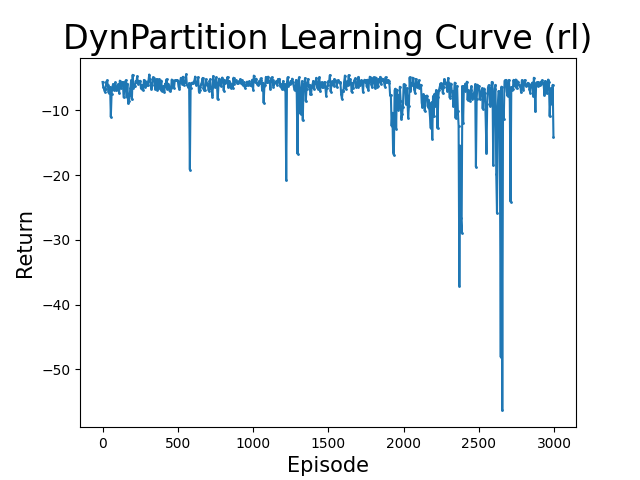
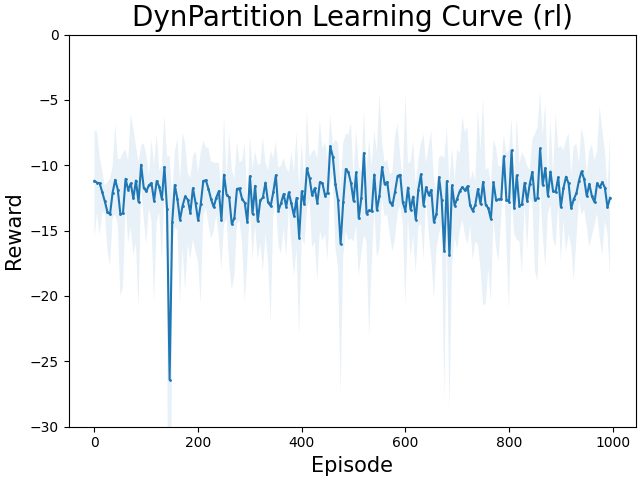
Add presentation plots

diff --git a/dynpartition/partitioner/rl_partitioner.py b/dynpartition/partitioner/rl_partitioner.py
@@ -13,52 +13,57 @@ from scheduler_env import SchedulerEnv
 
 
 def main():
-    num_seeds = 1
-    num_episodes = 100
+    num_seeds = 5
+    num_episodes = 1000
     num_test_episodes = 5
     episodes_between_test = 5
     l = num_episodes // episodes_between_test
     res = np.zeros((num_seeds, l))
-    agent = DQN_Agent(SchedulerEnv(), strategy='static-cpu')
+    agent = DQN_Agent(SchedulerEnv(), strategy='rl')
 
-    reward_means = []
     for i in tqdm.tqdm(range(num_seeds)):
+        reward_means = []
         for m in range(num_episodes):
-            print("Episode", m)
             agent.train()
+            if m % episodes_between_test == 0:
+                print(f"Episode: {m}")
+                G = np.zeros(episodes_between_test)
+                for k in range(num_test_episodes):
+                    g = agent.test()
+                    G[k] = g
 
-            # if episodes_between_test != 0:
-            #     continue
-
-            print(f"Episode: {m}")
-            G = np.zeros(20)
-            for k in range(num_test_episodes):
-                g = agent.test()
-                G[k] = g
-
-            reward_mean = G.mean()
-            reward_sd = G.std()
-            print(
-                f"The test reward for episode {m} is {reward_mean} "
-                f"with sd of {reward_sd}."
-            )
-            reward_means.append(reward_mean)
+                reward_mean = G.mean()
+                reward_sd = G.std()
+                print(
+                    f"The test reward for episode {m} is {reward_mean} "
+                    f"with sd of {reward_sd}."
+                )
+                reward_means.append(reward_mean)
 
         print(reward_means)
         res[i] = np.array(reward_means)
 
     ks = np.arange(l) * episodes_between_test
+    print(res)
+    print(res.shape)
     avs = np.mean(res, axis=0)
     maxs = np.max(res, axis=0)
     mins = np.min(res, axis=0)
 
-    plt.fill_between(ks, mins, maxs, alpha=0.1)
-    plt.plot(ks, avs, '-o', markersize=1)
+    import ipdb
+    ipdb.set_trace()
 
-    plt.xlabel('Episode', fontsize=15)
-    plt.ylabel('Return', fontsize=15)
+    fig, ax = plt.subplots(layout='constrained')
+    ax.fill_between(ks, mins, maxs, alpha=0.1)
+    ax.plot(ks, avs, '-o', markersize=1)
 
-    plt.title(f"DynPartition Learning Curve ({agent.strategy})", fontsize=24)
+    ax.set_xlabel('Episode', fontsize=15)
+    ax.set_ylabel('Reward', fontsize=15)
+
+    ax.set_title(
+        f"DynPartition Learning Curve ({agent.strategy})", fontsize=20)
+    ax.set_ylim(-30, 0)
+
     plot_path = get_plot_path().joinpath(
         f"dynpartition_learning_curve_{agent.strategy}.png")
     plt.savefig(plot_path)

diff --git a/dynpartition/partitioner/scheduler_env.py b/dynpartition/partitioner/scheduler_env.py
@@ -100,8 +100,6 @@ class SchedulerEnv(gym.Env):
 
         terminated = self.current_batch == self.num_batches
 
-        self.obs_id = 1337
-
         tree = self.dataset.trees[self.obs_id]
         for traversal_idx in range(tree.size()):
             node = tree.traversal_dict[traversal_idx]
@@ -115,32 +113,26 @@ class SchedulerEnv(gym.Env):
             execution_strategy='async',
         )
 
-        rewards = []
-        for i in range(100):
-            start = torch.cuda.Event(enable_timing=True)
-            end = torch.cuda.Event(enable_timing=True)
-            start.record()
-            execute_forward()
-            end.record()
+        start = torch.cuda.Event(enable_timing=True)
+        end = torch.cuda.Event(enable_timing=True)
+        start.record()
+        execute_forward()
+        end.record()
 
-            # run_times = timeit.repeat(
-            #     execute_forward,
-            #     number=1,
-            #     repeat=self.num_repeat,
-            #     globals=globals()
-            # )
-            # mean, std = np.mean(run_times), np.std(run_times)
-            # print(f"Mean: {mean}, Std: {std}")
+        # run_times = timeit.repeat(
+        #     execute_forward,
+        #     number=1,
+        #     repeat=self.num_repeat,
+        #     globals=globals()
+        # )
+        # mean, std = np.mean(run_times), np.std(run_times)
+        # print(f"Mean: {mean}, Std: {std}")
 
-            # Waits for everything to finish running
-            torch.cuda.synchronize()
+        # Waits for everything to finish running
+        torch.cuda.synchronize()
 
-            elapsed_time = start.elapsed_time(end)
-            reward = -elapsed_time
-
-            rewards.append(reward)
-
-        print(rewards)
+        elapsed_time = start.elapsed_time(end)
+        reward = -elapsed_time
 
         # run_times = timeit.repeat(
         #     execute_forward, number=1, repeat=self.num_repeat, globals=globals())

diff --git a/dynpartition/partitioner/time_measurements.py b/dynpartition/partitioner/time_measurements.py
@@ -43,7 +43,6 @@ def for_time_measurement(
         if isinstance(i.device_for_output, str):
             i.device_for_output = torch.device(i.device_for_output)
 
-        print(devices)
         assert i.device_for_state in devices
         assert i.device_for_output in devices
 
